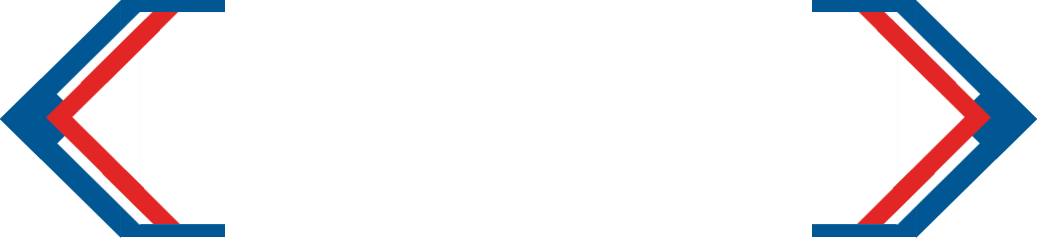
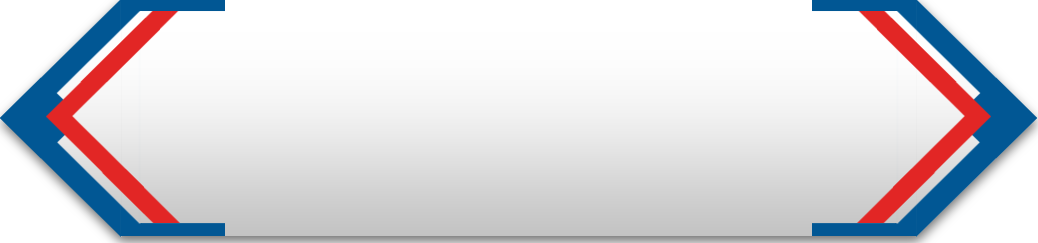
fast push for review

diff --git a/pages/human_capital/veteran_book.vue b/pages/human_capital/veteran_book.vue
@@ -16,27 +16,65 @@
         </div>
       </div>
       <div
-        class="all-size flex-center"
+        class="all-size flex-center chosen-veteran-container"
         style="align-items: center"
         v-show="modal && !visibleKeyboard"
+        :style="'z-index: ' + (!modal&&visibleKeyboard ? 3 : 6)"
       >
-        <img
-          style="width: 70%; height: 50%"
-          :src="
-            require('~/assets/picture/veteran/modal/' + modalIndex + '.png')
-          "
-          alt=""
-        />
+        <div class="chosen-veteran">
+          <div class="chosen-veteran-img">
+            <img :src="modalInfo.img" alt="">
+          </div>
+          <div class="chosen-veteran-desc">
+            <h2>{{modalInfo.name}}</h2>
+            <p>{{modalInfo.desc}}</p>
+            <div style="width: 100%;text-align: center;">
+              <div @click="modal = false">
+                <div class="btnwitharrow" style="background-size: contain; background-repeat: no-repeat; background-position: center center;">Назад</div>
+              </div>
+            </div>
+          </div>
+        </div>
         <!-- Знаю бред, потом сверстаю нормальную модалку, пока так  -->
       </div>
       <div
         v-show="!modal"
         :style="'z-index: ' + (visibleKeyboard ? 3 : 6)"
-        class="v-container"
+        
       >
+        <div class="v-container v-grid" :style="'z-index: ' + (visibleKeyboard ? 3 : 6)" v-show="filteredVeterans.length === 0">
+          <div
+            style="color: white"
+            v-for="letterArr in arraysByAlphabet"
+            :key="letterArr.title"
+          >
+            <label style="text-align: center;" for="div.itemLetter"><h4 style=" background-color: #ffffff0f;">{{ letterArr.title }}</h4></label>
+            <div
+              style="display: flex"
+              class="itemLetter"
+              v-for="letterItem in letterArr.data"
+              :key="letterItem.name"
+            >
+              <!-- {{letterItem}} -->
+              <img style="width: 100px" :src="letterItem.img" alt="" />
+              <div
+                class="modal"
+                @click="
+                  modal = true
+                  modalInfo = {name: letterItem.name, img: letterItem.img, desc: letterItem.desc}
+                "
+              >
+                <h4 class="text">
+                  {{ letterItem.name }}
+                </h4>
+              </div>
+            </div>
+          </div>
+        </div>
+        <div class="v-container" style="gap: 30px;">
         <div
           class="v"
-          style="width: 32vw"
+          style="width: auto"
           v-for="(user, index) in filteredVeterans"
           :key="index"
         >
@@ -44,7 +82,7 @@
             class="modal"
             @click="
               modal = true
-              modalIndex = index
+              modalInfo = {name: user.name, img: user.img, desc: user.desc}
             "
             :style="'background-image: url(' + user.img + ')'"
           >
@@ -53,6 +91,7 @@
             </h3>
           </div>
         </div>
+      </div>
       </div>
     </div>
     <div class="ui-keyboard-case">
@@ -81,7 +120,7 @@ export default {
       layout: 'normal',
       visibleKeyboard: false,
       modal: false,
-      modalIndex: 0,
+      modalInfo: {},
       options: {
         useKbEvents: false,
         preventClickEvent: false,
@@ -108,6 +147,27 @@ export default {
     veterans() {
       return this.byPath('humanCapital.veterans')
     },
+    arraysByAlphabet() {
+      return Object.values(
+        this.veterans.reduce((acc, word) => {
+          let firstLetter = word.name[0].toLocaleUpperCase()
+          if (!acc[firstLetter]) {
+            acc[firstLetter] = { title: firstLetter, data: [word] }
+          } else {
+            acc[firstLetter].data.push(word)
+          }
+          acc = Object.keys(acc)
+            .sort()
+            .reduce(function (result, key) {
+              result[key] = acc[key]
+              return result
+            }, {})
+          // acc = Object.values(acc)
+          console.log(acc)
+          return acc
+        }, {})
+      )
+    },
     filteredVeterans() {
       var users_array = this.veterans,
         searchName = this.searchName
@@ -133,11 +193,19 @@ export default {
   background-size: 100vw 100vh;
   display: flex;
 }
+.v-grid {
+  display: grid;
+  grid-template-columns: auto auto auto;
+  grid-gap: 30px;
+}
 .v-container {
   position: absolute;
   display: flex;
   margin: 50px;
   z-index: 3;
+  flex-wrap: wrap;
+  justify-content: flex-start;
+
 }
 .v-container > .v > .modal > h3.text {
   background-image: linear-gradient(180deg, #00000000, #000000ff);
@@ -200,4 +268,40 @@ button.action:nth-child(2) {
   background-color: red;
   color: black;
 }
+
+.chosen-veteran {
+  display: flex;
+  flex-direction: row;
+  height: 59%;
+  width: 80vw;
+  background-image: url('~/assets/creative/chosenVeteranBg.svg');
+  background-repeat: no-repeat;
+  background-size: 100% 100%;
+}
+.chosen-veteran > .chosen-veteran-img {
+  height: 100%;
+  width:auto;
+}
+.chosen-veteran > .chosen-veteran-img > img {
+  height: 100%;
+  width:auto;
+}
+.chosen-veteran > .chosen-veteran-desc {
+  display: flex;
+  flex-direction: column;
+  justify-content: center;
+  align-items: flex-start;
+  padding: 20px 0px 30px 10px;
+}
+.chosen-veteran > .chosen-veteran-desc > h2 {
+  text-align: center;
+  width: 100%;
+}
+.chosen-veteran > .chosen-veteran-desc > p {
+  text-align: left;
+  width: 90%;
+  margin: 0;
+}
+
 </style>
+

diff --git a/pages/tablet/index.vue b/pages/tablet/index.vue
@@ -71,9 +71,9 @@ export default {
     }
   },
   computed: {
-    btnKeys() {
-      return Object.keys(this.tablet)
-    },
+    // btnKeys() {
+    //   return Object.keys(this.tablet)
+    // },
     btnArray() {
       if (this.array.length === 0) {
         return this.tablet.main
@@ -82,10 +82,10 @@ export default {
       }
     },
     ...mapGetters({
-      byPath: 'btns/byPath',
+      getByPath: 'btns/byPath',
     }),
     tablet() {
-      return this.byPath('tablet')
+      return this.getByPath('tablet')
     },
   },
   methods: {
@@ -99,7 +99,6 @@ export default {
       this.title = ''
     },
     async changeBtns(btn) {
-      const api = 'http://localhost:8000'
 
       if (this.tablet[btn.link]) {
         console.log(btn.link)

diff --git a/components/Module/BtnCollection.vue b/components/Module/BtnCollection.vue
@@ -38,6 +38,7 @@ export default {
   flex-wrap: wrap;
 }
 .big-logo {
+  margin-bottom: 8vh;
   width: 60vw;
   height: 25vh;
 }
@@ -53,14 +54,14 @@ export default {
   font-size: 36pt;
 }
 .btnsStyle {
-  width: 20vw;
-
+  width: 27vw;
+  color: #025692;
   height: 13vh;
   display: flex;
   justify-content: center;
   align-items: center;
   text-align: center;
-  margin: 5vh 0;
+  margin: 6vh 1vw;
   background-size: 100% 100%;
   background-repeat: no-repeat;
 }
@@ -74,7 +75,7 @@ export default {
   background-image: url('~/assets/creative/rbsmbtn.svg');
 }
 .oddBtns {
-  justify-content: space-around;
+  justify-content: center;
 }
 .evenBtns {
   justify-content: space-around;

diff --git a/components/Module/modelControl.vue b/components/Module/modelControl.vue
@@ -1,8 +1,7 @@
 <template>
-  <div class="all-size">
-    <div>
-      <label for="vue-range-slider">x</label>
-      <br />
+  <div class="all-size flex-center" style="align-items: center">
+    <div class="sliderus">
+      <!-- <label for="vue-range-slider">x</label> -->
       <vue-range-slider
         :name="'x'"
         :step="1"
@@ -45,4 +44,14 @@ export default {
 }
 </script>
 
-<style></style>
+<style>
+.vue-range-slider.slider-component .slider .slider-dot.slider-always .slider-tooltip-wrap {
+  display: none !important;
+}
+.sliderus {
+  width: 80vw;
+}
+.vue-range-slider.slider-component .slider .slider-process {
+  background-color: #e12123 !important;
+}
+</style>

diff --git a/layouts/default.vue b/layouts/default.vue
@@ -47,4 +47,12 @@ div.mx-video-player__mask-progress.mx-video-player__mask-progress_show {
   background-position: left top, right bottom, center;
   background-repeat: no-repeat, no-repeat;
 }
+
+@font-face {
+    font-family: "Open Sans";
+    src: local("Open Sans"),     url(~/assets/fonts/open-sans.ttf) format("truetype");}
+
+html {
+    font-family: "Open Sans";
+}
 </style>

diff --git a/pages/small_technology_future/index.vue b/pages/small_technology_future/index.vue
@@ -43,8 +43,11 @@ export default {
     //     }
     //   },
     ...mapGetters({
-      smallTablet: 'btns/smallTablet',
+      getByPath: 'btns/byPath',
     }),
+    smallTablet() {
+      return this.getByPath('smallTablet')
+    },
   },
   methods: {
     ...mapMutations(['CHANGE_BY_PATH']),

diff --git a/pages/human_capital/index.vue b/pages/human_capital/index.vue
@@ -42,8 +42,11 @@ export default {
       }
     },
     ...mapGetters({
-      humanCapital : 'btns/humanCapital'
+      byPath : 'btns/byPath'
     }),
+    humanCapital() {
+      return this.byPath('humanCapital')
+    }
   },
   methods: {
     returnToMain() {

diff --git a/components/Module/Video.vue b/components/Module/Video.vue
@@ -38,6 +38,10 @@ export default {
     loop: Boolean,
     pause: Boolean
   },
+  mounted() {
+    this.$refs.videoPlay
+    console.log(this.$refs.videoPlay.$el, 'this.$refs'); 
+  },
   watch: {
     'pause': function () {
       this.$nextTick(function () {
